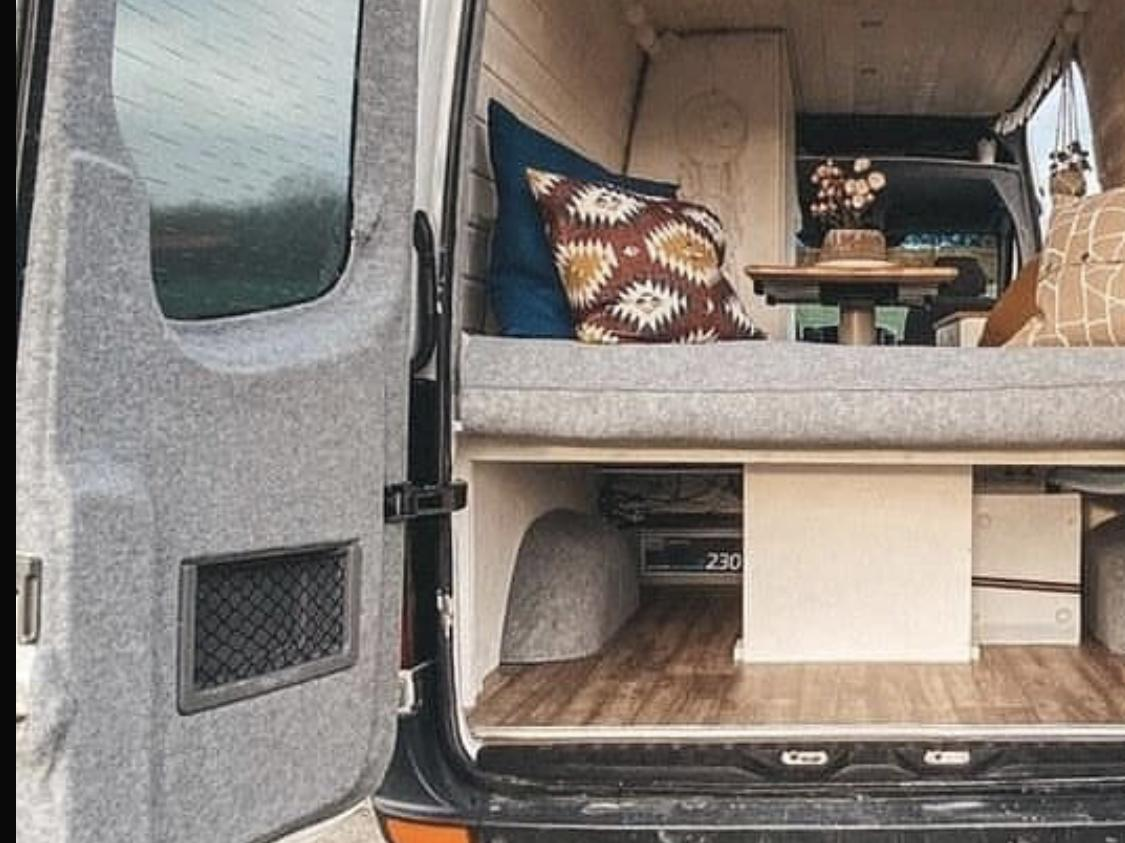
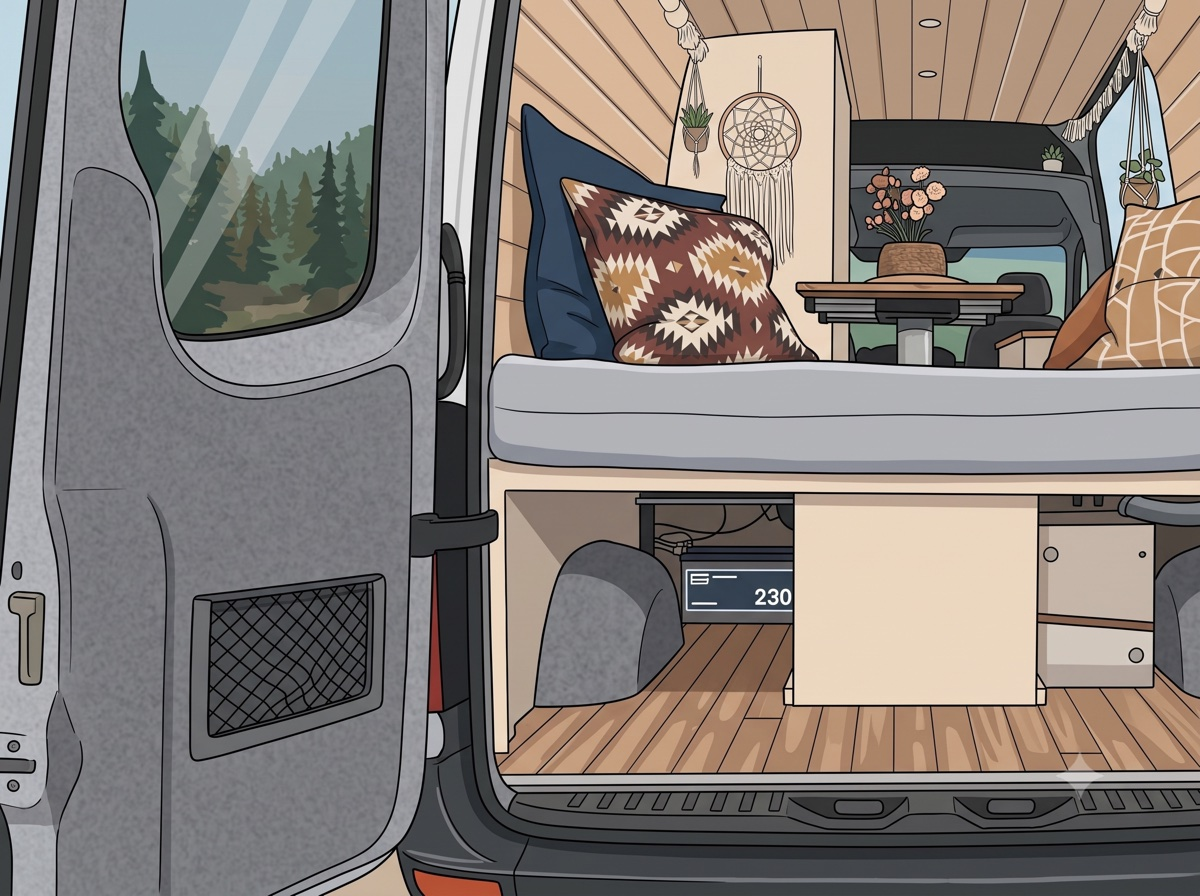
Edit: 자작캠핑카 외부 이미지 AI 일러스트로 교체 및 GIF/영상에 정적 이미지 캐러셀 추가

diff --git a/content/자작캠핑카/스타렉스 트렁크문 실내 오픈장치.md b/content/자작캠핑카/스타렉스 트렁크문 실내 오픈장치.md
@@ -21,8 +21,10 @@ tags:
 
 ## 그래도 명색이 캠핑카인데?
 
-<video src="/static/images/자작캠핑카/스타렉스 트렁크문 실내 오픈장치/20260716_IMG_3523.mp4" autoplay loop muted playsinline style="width:100%;"></video>
-_노지 캠핑에서의 아침 풍경_
+<div class="carousel">
+  <video src="/static/images/자작캠핑카/스타렉스 트렁크문 실내 오픈장치/20260716_IMG_3523.mp4" autoplay loop muted playsinline data-caption="노지 캠핑에서의 아침 풍경"></video>
+  <img src="/static/images/자작캠핑카/스타렉스 트렁크문 실내 오픈장치/20260716_morning_scene.jpg" alt="노지 캠핑에서의 아침 풍경" data-caption="노지 캠핑에서의 아침 풍경" />
+</div>
 
 그래도 명색이 캠핑카인데, 실내에서 트렁크문(테일게이트)을 열 수 없다는 게 말이 안 되죠? 내부에서 문을 못 열면 집(캠핑카=모터홈) 밖으로 나가서 열어야 되니까요. 감성 차박 영상을 보면 차에 누운 채로 트렁크문이 열리고 멋진 풍경이 펼쳐집니다. 그걸 하기 위한 작업입니다. 스타렉스 말고 다른 승합차량은 어떤지 모르겠는데, 기본적으로 실내에서 열 수 없게 돼있지 않을까 싶습니다.
 
@@ -33,8 +35,11 @@ _골조 보강해둔 트렁크문과 케이블 타이를 달아둔 걸쇠_
 
 [[자작캠핑카 단열 - 벽면|벽면 단열]] 작업 전 내장재를 제거하면 트렁크문 잠금 장치가 어떻게 생겼는지 확인 가능합니다. 뼈대만 남아있는 상태라 손잡이를 쥐었다 폈다 해보시면 금방 알 수 있습니다.
 
-<video src="/static/images/자작캠핑카/스타렉스 트렁크문 실내 오픈장치/20260716_IMG_7800.mp4" autoplay loop muted playsinline style="width:100%;"></video>
-_위아래로 움직이는 잠금 걸쇠_
+<div class="carousel">
+  <video src="/static/images/자작캠핑카/스타렉스 트렁크문 실내 오픈장치/20260716_IMG_7800.mp4" autoplay loop muted playsinline data-caption="위아래로 움직이는 잠금 걸쇠"></video>
+  <img src="/static/images/자작캠핑카/스타렉스 트렁크문 실내 오픈장치/20260716_latch_motion.jpg" alt="위아래로 움직이는 잠금 걸쇠" data-caption="위아래로 움직이는 잠금 걸쇠" />
+  <img src="/static/images/자작캠핑카/스타렉스 트렁크문 실내 오픈장치/20260716_latch_mechanism.jpg" alt="트렁크문 잠금장치 걸쇠" data-caption="트렁크문 잠금장치 걸쇠" />
+</div>
 
 위 영상에서 보듯이 걸쇠(래치)를 아래로 당기면 트렁크문 고정 장치가 풀리는 식입니다. 저 걸쇠에다가 케이블 타이를 묶어줍니다. 문 손잡이를 케이블 타이로 해둘 수는 없기 때문에 손잡이로 쓸 만한 것을 구입했습니다. 저는 캠핑 스타일에 맞게 번지 코드(스트레치 코드)로 된 손잡이를 샀습니다. 
 

diff --git a/content/자작캠핑카/다양한 캠핑카 작업 아이디어 얻기.md b/content/자작캠핑카/다양한 캠핑카 작업 아이디어 얻기.md
@@ -15,8 +15,8 @@ tags:
 
 취미 생활에 있어서 우리나라 사람들도 방귀 좀 뀌지만, 그 전문성이나 깊이에 있어서 그 이상의 레벨에는 양덕들이 존재합니다. 그래서 나온 명제가 '덕중의 덕은 양덕'이죠. 국내 유튜브를 봐도 대단한 분들이 많긴 합니다. 캠핑카를 직접 며칠 만에 뚝딱 만드는 유튜브 영상을 어렵지 않게 찾을 수 있고요. 그치만, 더 실용적이고 미적으로 작업하는 것은 아무래도 캠핑의 역사가 더 오래된 외국인들입니다.
 
-![[20260611_IMG_3583D292BA49-1.jpeg|캠핑카 천장의 모티브가 된 인스타그램 @theryovan]]
-_캠핑카 천장의 모티브가 된 인스타그램 @theryovan_ 
+![[20260611_ceiling_louver.jpg|천장 루버 구조의 모티브가 된 캠핑카 이미지]]
+_천장 루버 구조의 모티브가 된 캠핑카 이미지_
 
 국내에서 캠핑카 작업에 사용되는 차량은 매우 한정적이죠. 자작캠핑카는 특히나 더 그렇고요. 보통 제가 선택한 스타렉스와 비슷한 스타리아, 이스타나 등의 '봉고' 차량, 아니면 그보다 조금 큰 르노 마스터, 현대 솔라티 등입니다. 외국의 경우 차종이 다양하고, 추정컨대 관련 법령도 덜 까다로운 것 같습니다. 승용차를 개조하기도 하고, 차량 안에 화목 난로를 넣기도 하고, 정말 다양한 종류의 자작캠핑카가 있습니다.
 
@@ -24,8 +24,8 @@ _캠핑카 천장의 모티브가 된 인스타그램 @theryovan_
 
 구글에서 `van camper self conversion` 등의 키워드로 검색해보면 다양한 블로그, 유튜브 등을 둘러볼 수 있습니다. 요즘엔 브라우저 자체 번역 기능이 나쁘지 않아서 외국어 정보도 쉽게 얻을 수 있어요. 제가 주로 방문했던 블로그는 찾을 수 없어서 [예시](https://divineontheroad.com/)를 올립니다.
 
-![[20260611_IMG_E6330.JPG|침상 및 테이블 모티브가 된 인스타그램 @kamithebus]]
-_침상 및 테이블 모티브가 된 인스타그램 @kamithebus_
+![[20260611_camper_layout.jpg|내부 구조에 영향을 준 캠핑카 이미지]]
+_내부 구조에 영향을 준 캠핑카 이미지_
 
 제가 블로그에 작업 단계를 상세히 남겨두는 것은 해외 블로그에 비해 국내에는 관련한 정보가 많지 않았기 때문이었다. 그들만큼의 수준으로 남길 자신은 없지만, 나중에 제 자신에게나 또는 저와 같은 작업을 계획 중인 이들에게 도움이 됐으면 좋겠습니다.
 

diff --git a/content/자작캠핑카/자작캠핑카 단열 - 윈도우 커버.md b/content/자작캠핑카/자작캠핑카 단열 - 윈도우 커버.md
@@ -37,10 +37,10 @@ _윈도우 커버가 완성되기 전 임시로 가려둔 상태_
 
 제 스타렉스는 10인승 승합 모델이기 때문에 운전석 뒤로 차량 측면과 후면에 전부 창문이 있습니다. 쾌적한 차박을 위해선 이를 전부 가려야 했습니다. 요즘엔 차량 모델별로 윈도우 커버가 기성품으로 잘 나오긴 하지만, 단열과 차광을 좀 더 신경 쓰고 싶었습니다.
 
-이전 단열 관련해서 적은 것처럼, 창문은 [[캠핑카 단열에 대한 설명#복사열 (Radiation)|복사열]]이 차량 안으로 들어올 수 있는 좋은 통로입니다. 기성품 윈도우 커버의 경우에 단열은 크게 고려해서 출시되진 않기 때문에 선택하지 않았습니다.
+이전 단열 관련해서 적은 것처럼, 창문은 [[캠핑카 단열에 대한 설명#복사열 (Radiation)|복사열]]이 차량 안으로 들어올 수 있는 좋은 통로입니다. 기성품 윈도우 커버의 경우, 단열은 고려하지 않고 제작됐기 때문에 선택하지 않았습니다. 해외 제품의 경우 단열을 고려한 제품이 있긴 했는데 너무 비싸기도 하고 단열 성능이 좋아 보이진 않아서 구입하지 않았습니다.
 
-![[20260702_IMG_E8841.jpg|해외 블로그에서 본 훌륭한 윈도우 스크린]]
-_해외 블로그에서 본 훌륭한 윈도우 스크린_
+![[20260702_IMG_E8841.jpg|해외에서 판매되는 기성품 윈도우 스크린]]
+_해외에서 판매되는 기성품 윈도우 스크린_
 
 단열뿐만 아니라 차광도 중요했던 것은, 저는 주로 스텔스 차박을 할 계획이 있었기 때문입니다. 아무래도 기성품은 저녁에 차량 내부의 빛이 외부로 새어나가지 않도록 완벽히 차단해주긴 어렵다고 판단했습니다.
 

diff --git a/content/자작캠핑카/자작캠핑카 벽면 마감.md b/content/자작캠핑카/자작캠핑카 벽면 마감.md
@@ -39,8 +39,8 @@ _휠하우스 위에 파이론텍스 시공_
 
 파이론텍스(부직포) 작업은 생각보다 어려움이 많았습니다. 차량 내부가 완벽한 평면이 아니다 보니, 신축성이 없는 파이론텍스로 벽면을 보기 좋게 덮기가 어려웠습니다. 울퉁불퉁한 마감부가 많이 생겼습니다만 어차피 최종적으로는 침상이나 수납함 등으로 가려질 것을 적절히 감안하여 작업했습니다. 적당한 크기로 자른 파이론텍스를 접착제를 뿌려가며 벽면에 조금씩 고정시켜 나갑니다. 주름이 생기는 곳은 접거나 칼로 겹치는 부분을 잘라주며 최대한 매끈하게 마감합니다.
 
-![[20260723_IMG_5614.jpg|해외 캠핑카 시공 사례. 어떤 자재인지는 확인 불가]]
-_해외 캠핑카 시공 사례. 어떤 자재인지는 확인 불가_
+![[20260723_IMG_5614.jpg|신축성 있는 소재로 트렁크문과 휠하우스 마감]]
+_신축성 있는 소재로 트렁크문과 휠하우스 마감_
 
 해외 캠핑카들의 벽면 마감에 대한 조사를 해보니, 아예 벽 단열까지 하고 목재 마감을 하는 경우가 아니면 주로 부직포 같은 재질의 마감을 많이 하더라구요. 제가 사용한 파이론텍스와 자재의 차이가 있다면 '신축성'이었습니다. 독일에서의 캠핑카 전문 업체의 시공 영상을 봤던 기억이 납니다. 업체 작업자들이 벽면에 붙이는 자재를 힘을 줘가면서 쭉쭉 늘리며 시공을 했습니다. 접착제도 기본으로 발려 있던 것 같네요. 그 업체에서 판매하는 자재를 파는 링크도 있었는데 너무 비싼 가격이라 사지 않았습니다.
 

diff --git a/content/자작캠핑카/드디어 자작캠핑카 바닥 마감.md b/content/자작캠핑카/드디어 자작캠핑카 바닥 마감.md
@@ -61,8 +61,8 @@ _EVA 폼으로 바닥 평탄화를 마친 모습_
 
 [[자작캠핑카 방청, 방수, 방진 작업|방진 등 바닥 기초 작업]] 이후, 가장 먼저 바닥 평탄화 작업을 했습니다. 바닥에 단열재를 올리기 전 평탄화를 해야 바닥에 요철이 생기지 않을 것이라 판단했습니다. 5T, 10T 폼을 잘라서 3M 99 접착제로 바닥에 붙였어요. 
 
-![[20260709_IMG_3450.jpg|고무 발포 보온재로 바닥 시공한 모습]]
-_고무 발포 보온재로 바닥 시공한 모습_
+![[20260709_IMG_3450.jpg|간단히 시공이 가능한 고무 발포 보온재]]
+_간단히 시공이 가능한 고무 발포 보온재_
 
 최근에 보니 고무 발포 보온재([Aeroflex](https://mostbt.co.kr/aeroflex/m1s1.php))와 같은 자재가 있더군요. [이런 것](https://smartstore.naver.com/joeunins/products/4479443084?nl-query=%EA%B3%A0%EB%AC%B4%20%EB%B0%9C%ED%8F%AC%20%EB%B3%B4%EC%98%A8%EC%9E%AC%20aeroflex&nl-au=027710c4c2e24807890559cc61593de6)들을 구매해서 시공을 한다면 훨씬 간편한 시공이 될 듯하네요. 제가 작업한 EVA 폼처럼 많이 자를 필요도 없으니까요. 가격이 좀 비싼 것 같은데 다른 대체재도 있을 듯합니다. '고무 발포 보온재'로 검색하니 아마셀, Armaflex 등이 나오니 참고하도록 합시다.
 

diff --git a/content/자작캠핑카/자작캠핑카 내부 골조 보강.md b/content/자작캠핑카/자작캠핑카 내부 골조 보강.md
@@ -44,7 +44,10 @@ _너트 리베터와 다양한 모양의 볼트들_
 
 차체 철판에 그냥 무턱대고 피스를 박아버릴 수는 없기 때문에, 이를 위해 필요한 것이 너트 리베터입니다. 내장재를 분리한 차체에는 동그란 빈 구멍이 굉장히 많이 찾을 수 있습니다. 대부분 내장재 고정 클립이 박혀있던 곳들이겠지요. 그 부분을 볼트를 고정할 수 있게 빈 구멍을 나사산으로 만들 겁니다. 너트 리베터의 동작 방식을 보면 한 번에 이해가 됩니다.
 
-![[20260625_rivet.gif]]
+<div class="carousel" style="--carousel-aspect: 5/3">
+  <img src="/static/images/자작캠핑카/자작캠핑카 내부 골조 보강/20260625_rivet.gif" alt="너트 리베터 작동 방식" data-caption="너트 리베터 작동 방식" />
+  <img src="/static/images/자작캠핑카/자작캠핑카 내부 골조 보강/20260625_rivet_combined.jpg" alt="너트 리베터 작동 방식" data-caption="너트 리베터 작동 방식" />
+</div>
 
 1. 구멍에 리벳 너트를 삽입한다
 2. 리베터 손잡이를 쥐어 리벳 너트를 압착해서 철판 뒷면에 걸리게 고정한다

diff --git a/content/자작캠핑카/자작캠핑카 내부 구조 정하기.md b/content/자작캠핑카/자작캠핑카 내부 구조 정하기.md
@@ -72,7 +72,7 @@ _침상이 넓은 평상형 구조_
 
 <div class="carousel" style="--carousel-aspect: 5/3">
   <img src="/static/images/자작캠핑카/자작캠핑카 내부 구조 정하기/20260727_starex_camper_final_layout.png" alt="내 차 구조" data-caption="내 차 구조" />
-  <img src="/static/images/자작캠핑카/자작캠핑카 내부 구조 정하기/20260727_IMG_6330.JPG" alt="인스타그램 @kamithebus" data-caption="인스타그램 @kamithebus" />
+  <img src="/static/images/자작캠핑카/자작캠핑카 내부 구조 정하기/20260727_camper_layout.jpg" alt="하이브리드 침상 구조의 캠핑카 이미지" data-caption="하이브리드 침상 구조의 캠핑카 이미지" />
 </div>
 
 하이브리드라고 제가 이름을 붙여봤습니다. 제 경우는 잘 때 말고도 차에서 업무를 볼 생각도 있었기 때문에 이런 구조를 채택했습니다. 제가 키가 180cm 정도로 큰 편이고, 반려견도 한 마리 있다 보니 최대한 침상을 넓게 확보하려고 했습니다. 일과 시간 중 앉을 소파로서의 기능도 충실히 하기 위해서요.

diff --git a/content/자작캠핑카/캠핑카 단열에 대한 설명.md b/content/자작캠핑카/캠핑카 단열에 대한 설명.md
@@ -28,8 +28,6 @@ _복사열, 전도열, 대류열_
 
 위와 같이 차단, 차광으로 복사열을 막는다고 하더라도 아래에서 설명할 전도열, 대류열 또한 고려돼야 합니다. 
 
- 
-
 ### 전도열 (Conduction)
 
 차량 금속 패널을 통해 직접 전달되는 열. 겨울엔 냉기, 여름엔 열기가 차량 벽이나 바닥 등의 차체를 타고 차 안으로 유입됩니다. XPS 압출법보온판(아이소핑크), 씬슐레이트 등으로 막습니다.
